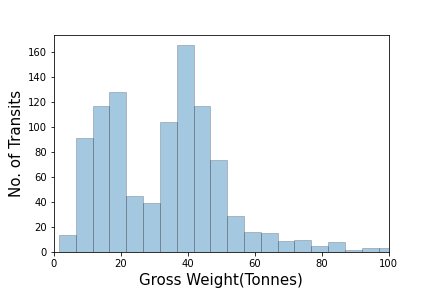
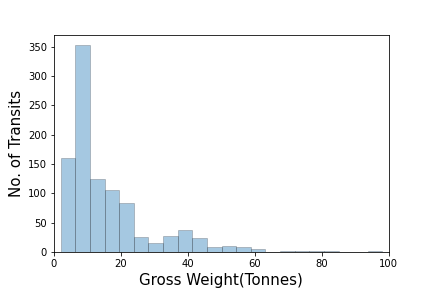
nakhon update

diff --git a/Resources/Demos/Nahon/nahonRecentStats.html b/Resources/Demos/Nahon/nahonRecentStats.html
@@ -59,7 +59,7 @@
             <ul class="navbar-nav">
 
                 <li class="nav-item">
-					<a class="nav-link" href="../../../WhitePapers/iBWIMdetailedInfo.html">iBWIM</a>
+                    <a class="nav-link" href="../../../WhitePapers/iBWIMdetailedInfo.html">iBWIM</a>
                 </li>
 
                 <li class="nav-item">
@@ -163,4 +163,4 @@
                     </tr>
 
                     <tr>
-                              <tr>                        <td>Bridge:              </td>                        <td>Nakhon Nayok, Thailand</td>                    </tr>                    <tr>                        <td>Test Period:         </td>                        <td>2020-11-07 to 2020-11-13</td>                    <tr>                        <td>Test Times:         </td>                        <td>11:30:15 to 14:19:38</td>                    </tr>                                     <tr>                        <td>Number of violations:</td>                        <td>211</td>                    </tr>                    <tr>                        <td>Number of transits:</td>                        <td>998</td>                    </tr>                 </table>             </div>            <div class='col-sm-4'></div>            <!-- Spacer-->        <div class='container-fluid'>            <div class='row'>                <div class='col-sm-2' style='background-color:white;'></div>                <div class='col-sm-8'>                      <img class='img-fluid' src='vCalendar.png' class='mx-auto d-block' />                    <br />                </div>                <div class='col-sm-2' style='background-color:white;'></div>            </div>        </div>             </div>            <div class='col-sm-2' style='background-color:white;'></div>        </div>    </div>        <!-- Spacer-->        <div class='container-fluid'>            <div class='row'>                <div class='col-sm-12'>                    .                    <br />                </div>            </div>        </div>         <!--Start a diagram +  table  (imageName)-->        <div class='container-fluid'>            <div class='row'>                <div class='col-sm-2' style='background-color:white;'></div>                 <div class='col-sm-4'>                    <img class='img-fluid' src='vWeightHisto.png'  height='300' class='mx-auto d-block' />                </div>                <div class='col-sm-4'>                    <table id='components2'>                        <tr>                            <th>Gross Vehicle Weight</th>                        </tr>                        <tr>                        <tr>                            <td>Mean weight (T):</td>                            <td>33.38 </td>                        </tr>                        <tr>                            <td>Mode weight (T):</td>                            <td>1.47</td>                        </tr>                        <tr>                            <td>Weight limit (T): </td>                            <td>50.0</td>                        </tr>                        <tr>                            <td>Number of violations:</td>                            <td>122</td>                        </tr>                        <tr>                            <td>Max violation (T):</td>                            <td>142.17</td>                        </tr>                    </table>                </div>                <div class='col-sm-2' style='background-color:white;'></div>            </div> <!-- End of Row-->        </div>      </div>      <!--Start a diagram +  table  (imageName)-->      <div class='container-fluid'>          <div class='row'>              <div class='col-sm-2' style='background-color:white;'></div>              <div class='col-sm-4'>                      <img class='img-fluid' src='vVelocity.png' class='mx-auto d-block' />              </div>              <div class='col-sm-4'>                  <table id='components2'>                          <tr>                              <th>Velocity</th>                                </tr>                          <tr>                          <tr>                              <td>Mean Speed (Km/h):</td>                              <td>40.31 </td>                          </tr>                          <tr>                              <td>Mode speed (Km/h):</td>                              <td>37.0</td>                          </tr>                          <tr>                              <td>Speed limit (Km/h):</td>                              <td>60.0</td>                          </tr>                          <tr>                              <td>Number of violations:</td>                              <td>61</td>                          </tr>                          <tr>                              <td>Max violation (Km/h):</td>                              <td>122.0</td>                          </tr>                            </table>                  </div>              </div>              <div class='col-sm-2' style='background-color:white;'>          </div>      </div>      <!--Start a diagram +  table  (imageName)-->      <div class='container-fluid'>          <div class='row'>              <div class='col-sm-2' style='background-color:white;'></div>              <div class='col-sm-4'>                  <img class='img-fluid' src='vLength.png'  height='300' class='mx-auto d-block'/>              </div>              <div class='col-sm-4'>                  <table id='components2'>                      <!--table heading -->                          <tr>                              <th>Vehicle Length (m):</th>                                </tr>                          <tr>                          <!--table entry -->                          <tr>                              <td>Mean Length (m):</td>                              <td>17.82</td>                          </tr>                          <!--table entry -->                          <tr>                              <td>Mode length (m):</td>                              <td>16.59</td>                          </tr>                             <!--table entry -->                         <tr>                             <td>Length limit (m): </td>                             <td>20.0</td>                         </tr>                            <!--table entry -->                                                 <tr>                             <td>Number of violations:</td>                             <td>28</td>                         </tr>                            <!--table entry -->                         <tr>                             <td>Max violation:</td>                             <td>148.67</td>                         </tr>                         <!--Close table -->                     </table>                 </div>             </div>             <div class='col-sm-2' style='background-color:white;'>         </div>     </div>      <!--Start a diagram +  table  (imageName)-->      <div class='container-fluid'>          <div class='row'>              <div class='col-sm-2' style='background-color:white;'></div>              <div class='col-sm-4'>                  <img class='img-fluid' src='vESAL.png'  height='300' class='mx-auto d-block'/>              </div>              <div class='col-sm-4'>                  <table id='components2'>                      <!--table heading -->                          <tr>                              <th>ESAL</th>                                </tr>                          <tr>                          <!--table entry -->                          <tr>                              <td>Mean ESAL:</td>                              <td>330.14</td>                          </tr>                          <!--table entry -->                          <tr>                              <td>Mode ESAL (m):</td>                              <td>2000</td>                          </tr>                             <!--table entry -->                         <tr>                             <td>ESAL limit (m): </td>                             <td>0.7</td>                         </tr>                            <!--table entry -->                                                 <tr>                             <td>Number of violations:</td>                             <td>983</td>                         </tr>                            <!--table entry -->                         <tr>                             <td>Max violation:</td>                             <td>2000</td>                         </tr>                         <!--Close table -->                     </table>                 </div>             </div>             <div class='col-sm-2' style='background-color:white;'>         </div>     </div> <!--Draw a axle count graph-->     <div class='container-fluid'>         <div class='row'>             <div class='col-sm-2' style='background-color:white;'></div>             <div class='col-sm-8' style='background-color:white;'>                 <img class='img-fluid' src='vAxleCount.png' class='mx-auto d-block' />             </div>             <div class='col-sm-2' style='background-color:white;'>         </div>     </div>     <br>       <br>   </div>     <!--Draw a double graph-->     <div class='container-fluid'>         <div class='row'>                 <div class='col-sm-2' style='background-color:white;'></div>                 <div class='col-sm-8'>                     <img class='img-fluid' src='vWeekHisto.png' class='mx-auto d-block' />                     <img class='img-fluid' src='vDiurnalHisto.png' class='mx-auto d-block' />                 </div>                 <div class='col-sm-2' style='background-color:white;'></div>         </div>     </div> <div class='row'>     <div class='col-sm-2' style='background-color:white;'></div>         <div class='col-sm-8'>                 <table id='components'>                     <tr>                         <th>Summary</th>                     </tr>                     <tr>                     <tr>                         <td>Location</td>                         <td>Nakhon Nayok, Thailand </td>                     </tr>                    <tr>                         <td>Measurement period:</td>                         <td>2020-11-07 to 2020-11-13</td>                    <tr>                         <td>Measurement times:</td>                         <td>11:30:15 to 14:19:38</td>                     </tr>                     <tr>                         <td>Number of events: </td>                         <td>998</td>                     </tr>                     <tr>                         <td>Number of violations:</td>                         <td>211</td>                     </tr>                 </table>                 <br>             <table id='components'>               <tr>                   <th>By axle count</th>               </tr>               <tr>               <tr>                   <td>Axles </td>                   <td>Transits </td>                   <td>Mean Speed (Km/h)</td>                   <td>Mean Weight (T) </td>                   <td>ESAL </td>               </tr>               <tr>                 <td>2 </td>                 <td>51 </td>                 <td>42.98</td>                 <td>14.02 </td>                 <td>299.53 </td>             </tr>               <tr>                 <td>3 </td>                 <td>148 </td>                 <td>43.89</td>                 <td>18.76 </td>                 <td>256.75 </td>             </tr>               <tr>                 <td>4 </td>                 <td>87 </td>                 <td>40.16</td>                 <td>23.34 </td>                 <td>386.34 </td>             </tr>               <tr>                 <td>5 </td>                 <td>133 </td>                 <td>40.45</td>                 <td>29.59 </td>                 <td>366.69 </td>             </tr>               <tr>                 <td>6 </td>                 <td>168 </td>                 <td>37.69</td>                 <td>36.26 </td>                 <td>344.67 </td>             </tr>           </table>           <br>   </html>      <table id='components'>         <tr>             <th>Exceptions</th>         </tr>         <tr>         <tr>             <td>Class </td>             <td>Speed (km/h)</td>             <td>Weight (T) </td>             <td>ESAL </td>         </tr>         <tr>           <td>Limit </td>           <td>60.0</td>           <td>50.0 </td>           <td>0.7 </td>       </tr>       <tr>           <td>Violations </td>           <td>61 </td>           <td>122</td>           <td>983</td>       </tr>            </table>     <div class='col-sm-2' style='background-color:lavender;'></div>     <br> </html>
+                              <tr>                        <td>Bridge:              </td>                        <td>Nakhon Nayok, Thailand</td>                    </tr>                    <tr>                        <td>Test Period:         </td>                        <td>2020-11-29 to 2020-12-01</td>                    <tr>                        <td>Test Times:         </td>                        <td>09:02:20 to 15:23:22</td>                    </tr>                                     <tr>                        <td>Number of violations:</td>                        <td>71</td>                    </tr>                    <tr>                        <td>Number of transits:</td>                        <td>998</td>                    </tr>                 </table>             </div>            <div class='col-sm-4'></div>            <!-- Spacer-->        <div class='container-fluid'>            <div class='row'>                <div class='col-sm-2' style='background-color:white;'></div>                <div class='col-sm-8'>                      <img class='img-fluid' src='vCalendar.png' class='mx-auto d-block' />                    <br />                </div>                <div class='col-sm-2' style='background-color:white;'></div>            </div>        </div>             </div>            <div class='col-sm-2' style='background-color:white;'></div>        </div>    </div>        <!-- Spacer-->        <div class='container-fluid'>            <div class='row'>                <div class='col-sm-12'>                    .                    <br />                </div>            </div>        </div>         <!--Start a diagram +  table  (imageName)-->        <div class='container-fluid'>            <div class='row'>                <div class='col-sm-2' style='background-color:white;'></div>                 <div class='col-sm-4'>                    <img class='img-fluid' src='vWeightHisto.png'  height='300' class='mx-auto d-block' />                </div>                <div class='col-sm-4'>                    <table id='components2'>                        <tr>                            <th>Gross Vehicle Weight</th>                        </tr>                        <tr>                        <tr>                            <td>Mean weight (T):</td>                            <td>16.62 </td>                        </tr>                        <tr>                            <td>Mode weight (T):</td>                            <td>1.98</td>                        </tr>                        <tr>                            <td>Weight limit (T): </td>                            <td>50.0</td>                        </tr>                        <tr>                            <td>Number of violations:</td>                            <td>37</td>                        </tr>                        <tr>                            <td>Max violation (T):</td>                            <td>220.4</td>                        </tr>                    </table>                </div>                <div class='col-sm-2' style='background-color:white;'></div>            </div> <!-- End of Row-->        </div>      </div>      <!--Start a diagram +  table  (imageName)-->      <div class='container-fluid'>          <div class='row'>              <div class='col-sm-2' style='background-color:white;'></div>              <div class='col-sm-4'>                      <img class='img-fluid' src='vVelocity.png' class='mx-auto d-block' />              </div>              <div class='col-sm-4'>                  <table id='components2'>                          <tr>                              <th>Velocity</th>                                </tr>                          <tr>                          <tr>                              <td>Mean Speed (Km/h):</td>                              <td>39.74 </td>                          </tr>                          <tr>                              <td>Mode speed (Km/h):</td>                              <td>39.0</td>                          </tr>                          <tr>                              <td>Speed limit (Km/h):</td>                              <td>60.0</td>                          </tr>                          <tr>                              <td>Number of violations:</td>                              <td>29</td>                          </tr>                          <tr>                              <td>Max violation (Km/h):</td>                              <td>109.0</td>                          </tr>                            </table>                  </div>              </div>              <div class='col-sm-2' style='background-color:white;'>          </div>      </div>      <!--Start a diagram +  table  (imageName)-->      <div class='container-fluid'>          <div class='row'>              <div class='col-sm-2' style='background-color:white;'></div>              <div class='col-sm-4'>                  <img class='img-fluid' src='vLength.png'  height='300' class='mx-auto d-block'/>              </div>              <div class='col-sm-4'>                  <table id='components2'>                      <!--table heading -->                          <tr>                              <th>Vehicle Length (m):</th>                                </tr>                          <tr>                          <!--table entry -->                          <tr>                              <td>Mean Length (m):</td>                              <td>8.58</td>                          </tr>                          <!--table entry -->                          <tr>                              <td>Mode length (m):</td>                              <td>3.11</td>                          </tr>                             <!--table entry -->                         <tr>                             <td>Length limit (m): </td>                             <td>20.0</td>                         </tr>                            <!--table entry -->                                                 <tr>                             <td>Number of violations:</td>                             <td>5</td>                         </tr>                            <!--table entry -->                         <tr>                             <td>Max violation:</td>                             <td>72.75</td>                         </tr>                         <!--Close table -->                     </table>                 </div>             </div>             <div class='col-sm-2' style='background-color:white;'>         </div>     </div>      <!--Start a diagram +  table  (imageName)-->      <div class='container-fluid'>          <div class='row'>              <div class='col-sm-2' style='background-color:white;'></div>              <div class='col-sm-4'>                  <img class='img-fluid' src='vESAL.png'  height='300' class='mx-auto d-block'/>              </div>              <div class='col-sm-4'>                  <table id='components2'>                      <!--table heading -->                          <tr>                              <th>ESAL</th>                                </tr>                          <tr>                          <!--table entry -->                          <tr>                              <td>Mean ESAL:</td>                              <td>86.73</td>                          </tr>                          <!--table entry -->                          <tr>                              <td>Mode ESAL (m):</td>                              <td>2</td>                          </tr>                             <!--table entry -->                         <tr>                             <td>ESAL limit (m): </td>                             <td>0.7</td>                         </tr>                            <!--table entry -->                                                 <tr>                             <td>Number of violations:</td>                             <td>959</td>                         </tr>                            <!--table entry -->                         <tr>                             <td>Max violation:</td>                             <td>2000</td>                         </tr>                         <!--Close table -->                     </table>                 </div>             </div>             <div class='col-sm-2' style='background-color:white;'>         </div>     </div> <!--Draw a axle count graph-->     <div class='container-fluid'>         <div class='row'>             <div class='col-sm-2' style='background-color:white;'></div>             <div class='col-sm-8' style='background-color:white;'>                 <img class='img-fluid' src='vAxleCount.png' class='mx-auto d-block' />             </div>             <div class='col-sm-2' style='background-color:white;'>         </div>     </div>     <br>       <br>   </div>     <!--Draw a double graph-->     <div class='container-fluid'>         <div class='row'>                 <div class='col-sm-2' style='background-color:white;'></div>                 <div class='col-sm-8'>                     <img class='img-fluid' src='vWeekHisto.png' class='mx-auto d-block' />                     <img class='img-fluid' src='vDiurnalHisto.png' class='mx-auto d-block' />                 </div>                 <div class='col-sm-2' style='background-color:white;'></div>         </div>     </div> <div class='row'>     <div class='col-sm-2' style='background-color:white;'></div>         <div class='col-sm-8'>                 <table id='components'>                     <tr>                         <th>Summary</th>                     </tr>                     <tr>                     <tr>                         <td>Location</td>                         <td>Nakhon Nayok, Thailand </td>                     </tr>                    <tr>                         <td>Measurement period:</td>                         <td>2020-11-29 to 2020-12-01</td>                    <tr>                         <td>Measurement times:</td>                         <td>09:02:20 to 15:23:22</td>                     </tr>                     <tr>                         <td>Number of events: </td>                         <td>998</td>                     </tr>                     <tr>                         <td>Number of violations:</td>                         <td>71</td>                     </tr>                 </table>                 <br>             <table id='components'>               <tr>                   <th>By axle count</th>               </tr>               <tr>               <tr>                   <td>Axles </td>                   <td>Transits </td>                   <td>Mean Speed (Km/h)</td>                   <td>Mean Weight (T) </td>                   <td>ESAL </td>               </tr>               <tr>                 <td>2 </td>                 <td>332 </td>                 <td>39.07</td>                 <td>7.56 </td>                 <td>23.27 </td>             </tr>               <tr>                 <td>3 </td>                 <td>314 </td>                 <td>41.39</td>                 <td>13.23 </td>                 <td>50.65 </td>             </tr>               <tr>                 <td>4 </td>                 <td>77 </td>                 <td>38.68</td>                 <td>16.79 </td>                 <td>156.57 </td>             </tr>               <tr>                 <td>5 </td>                 <td>79 </td>                 <td>37.91</td>                 <td>21.48 </td>                 <td>115.47 </td>             </tr>               <tr>                 <td>6 </td>                 <td>109 </td>                 <td>39.08</td>                 <td>27.89 </td>                 <td>169.17 </td>             </tr>           </table>           <br>   </html>      <table id='components'>         <tr>             <th>Exceptions</th>         </tr>         <tr>         <tr>             <td>Class </td>             <td>Speed (km/h)</td>             <td>Weight (T) </td>             <td>ESAL </td>         </tr>         <tr>           <td>Limit </td>           <td>60.0</td>           <td>50.0 </td>           <td>0.7 </td>       </tr>       <tr>           <td>Violations </td>           <td>29 </td>           <td>37</td>           <td>959</td>       </tr>            </table>     <div class='col-sm-2' style='background-color:lavender;'></div>     <br> </html>
